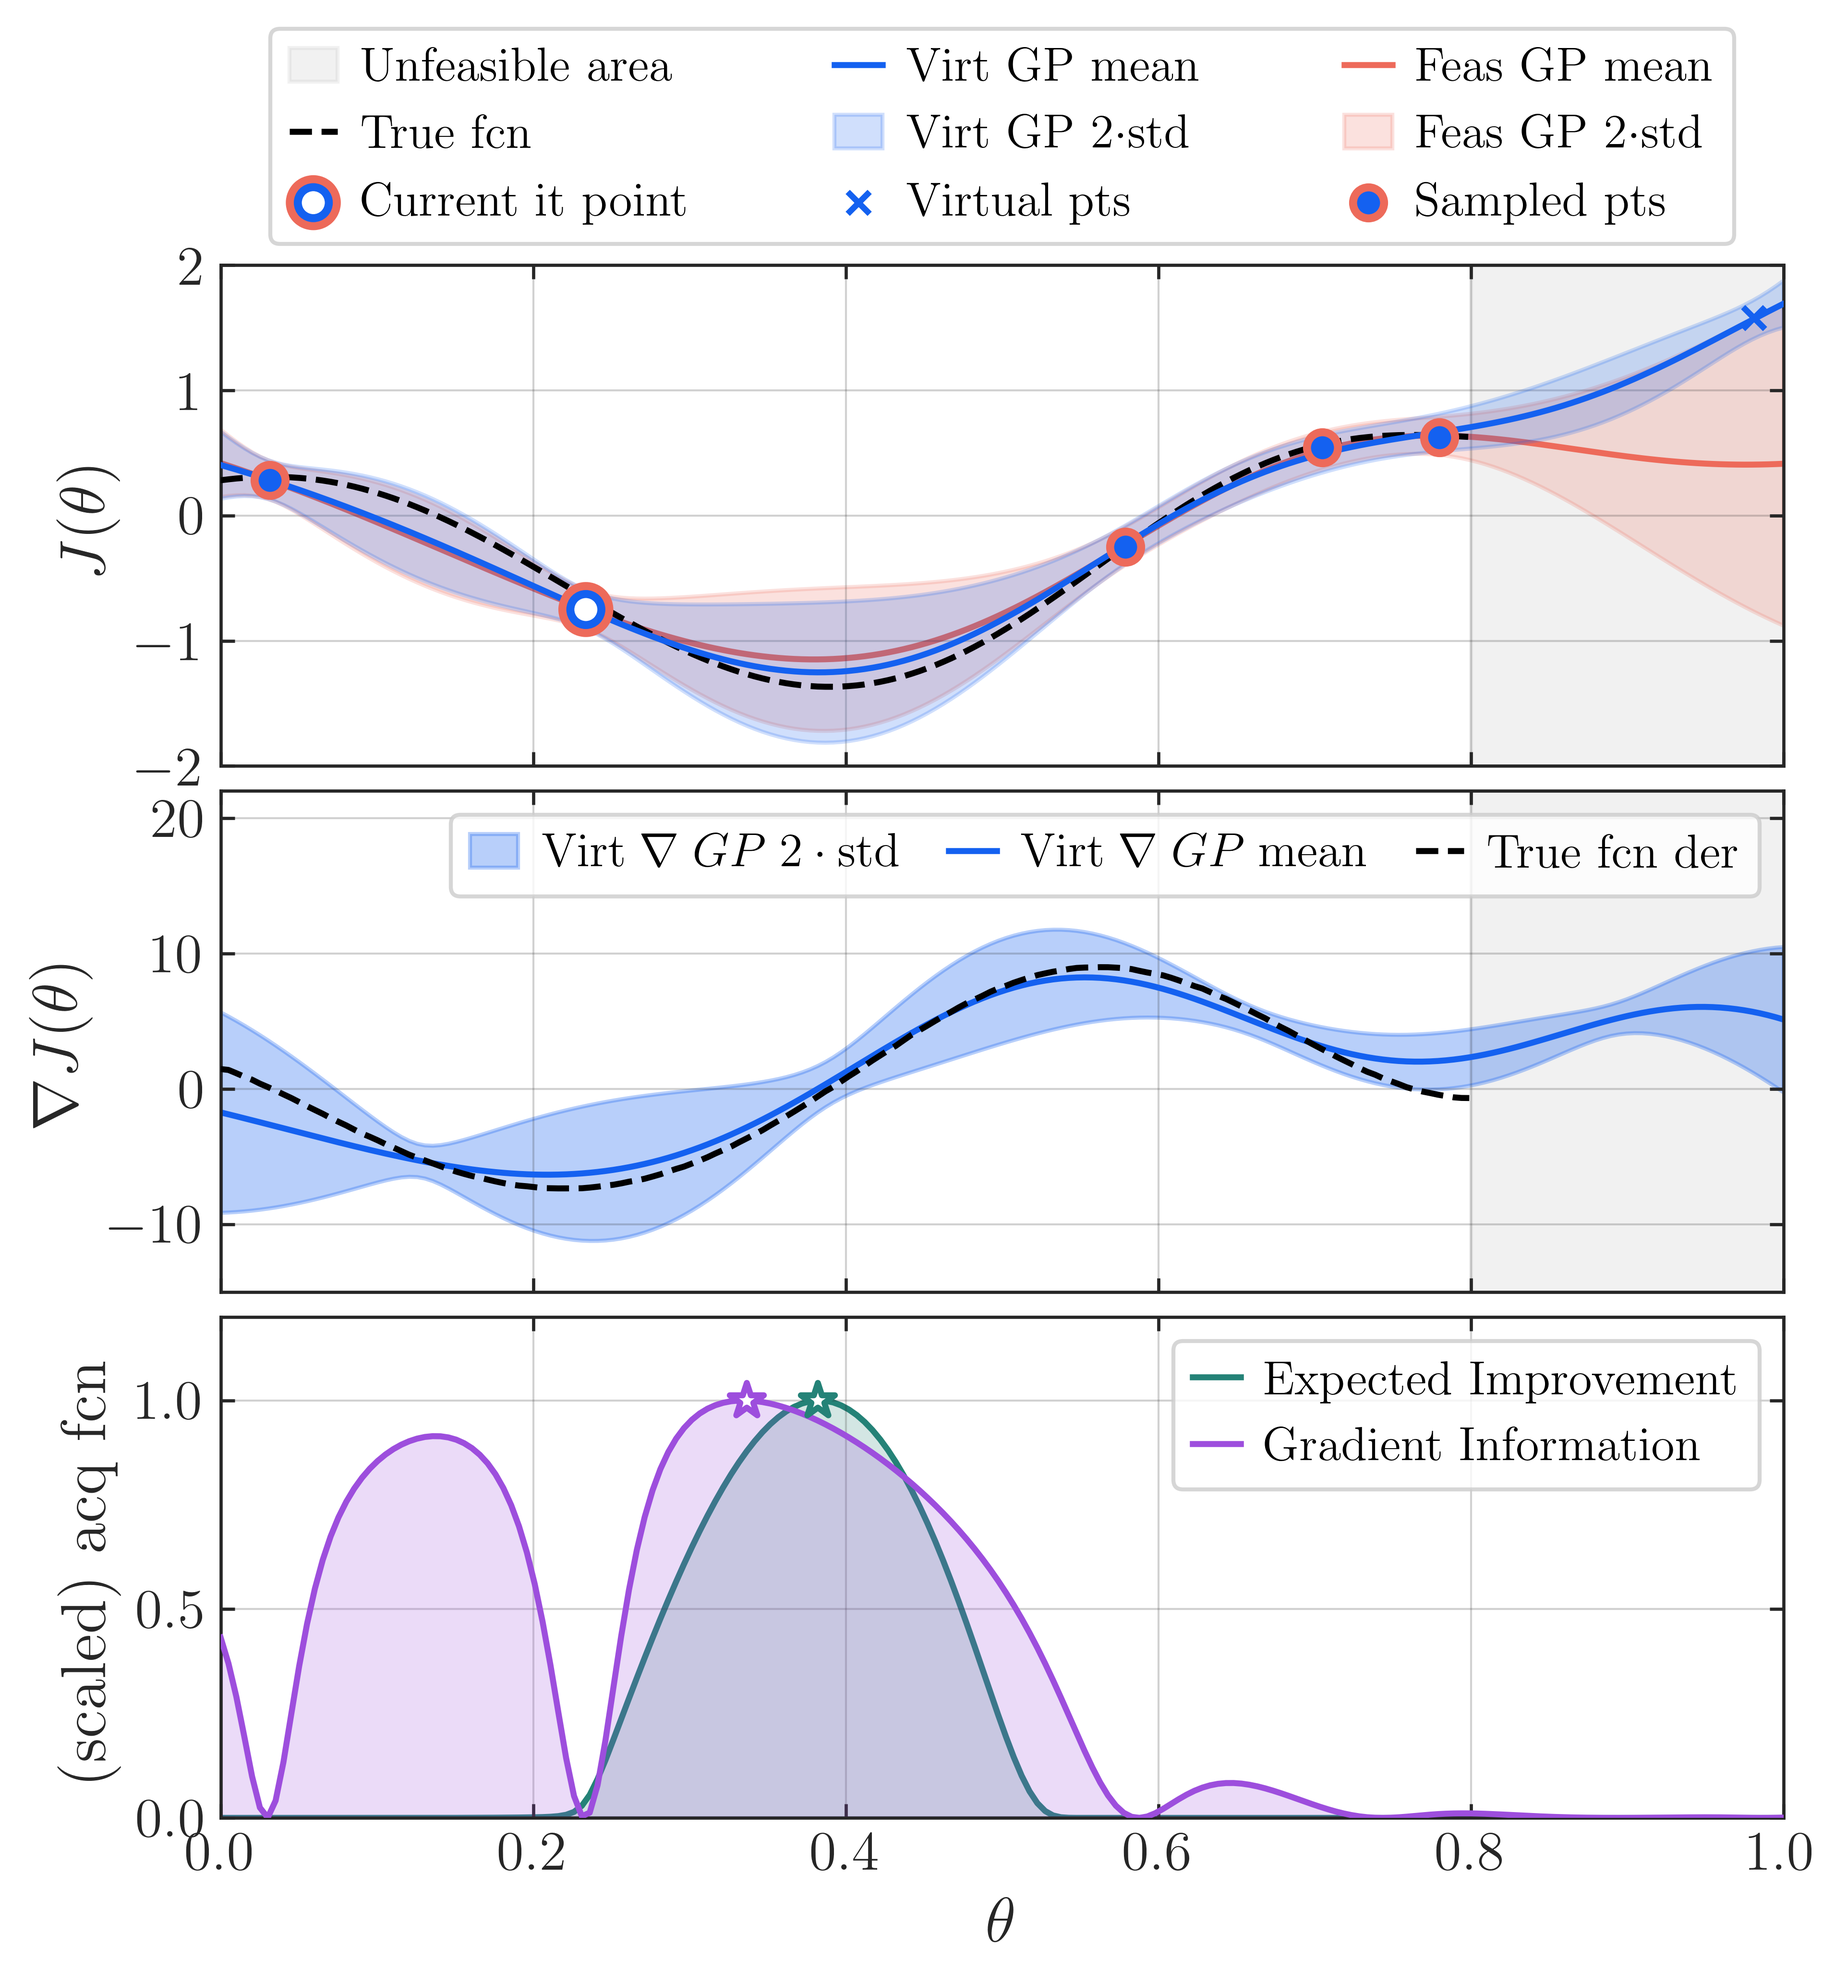
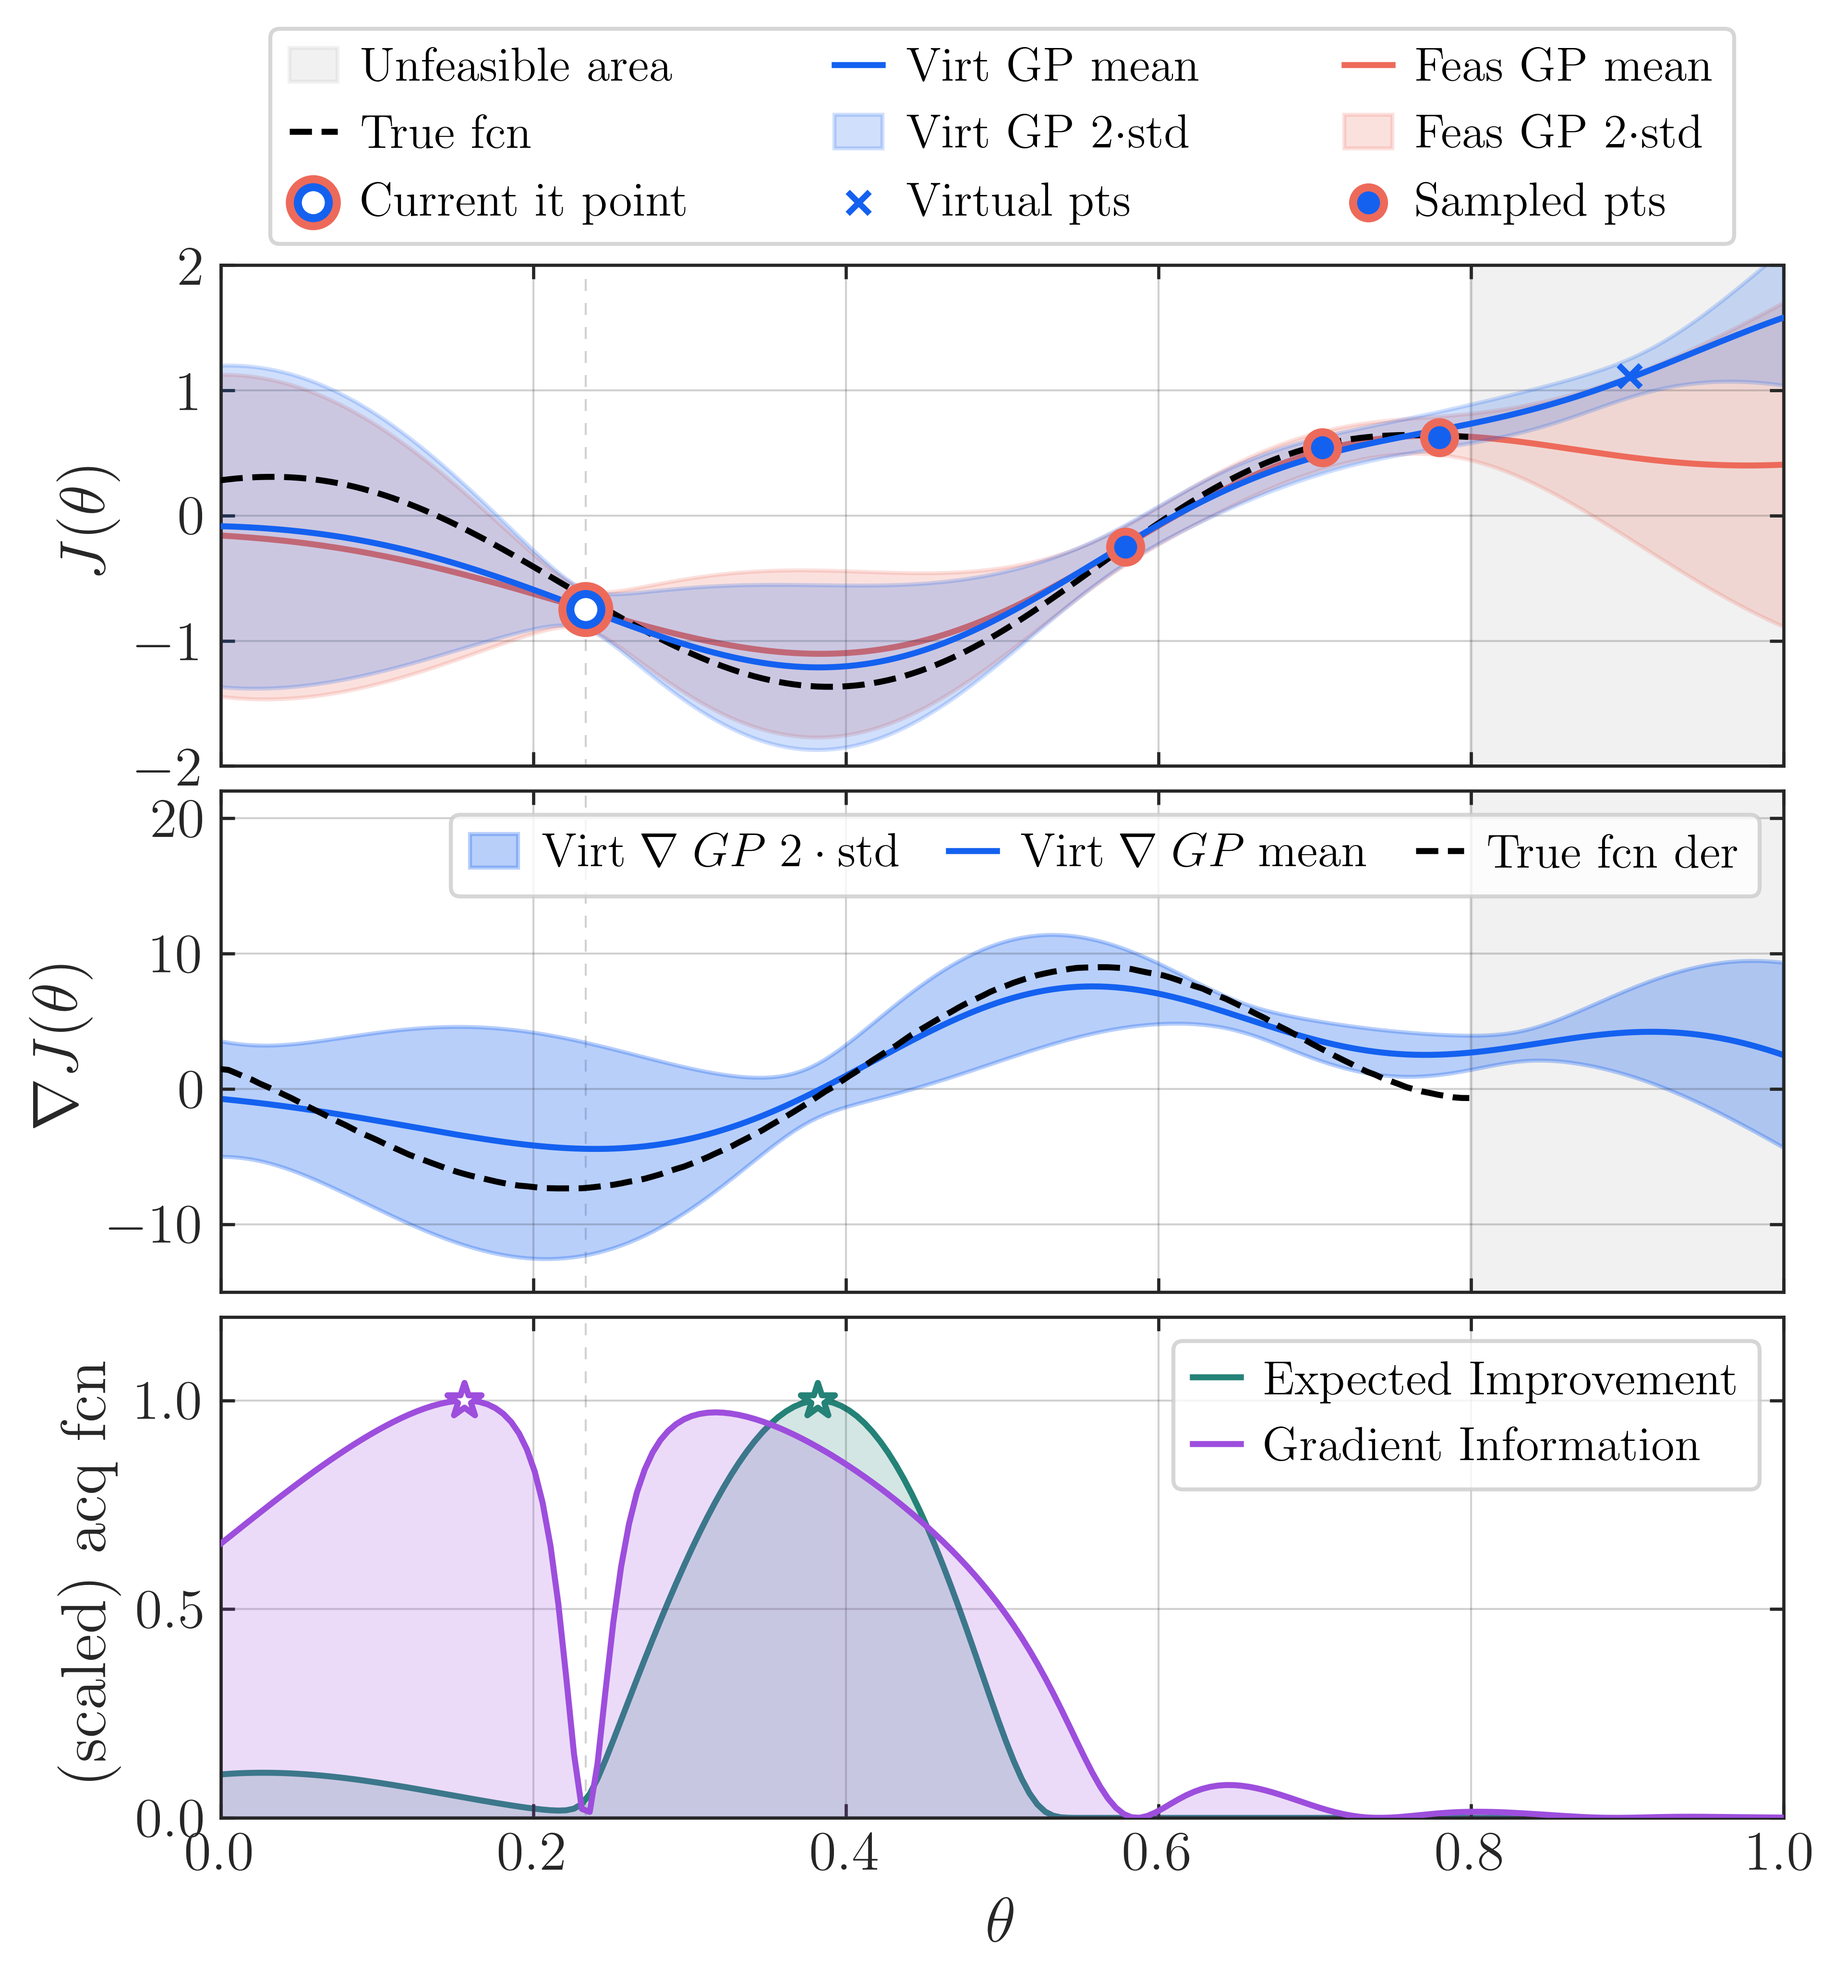
[ADD]: changed GIBO example plot

diff --git a/plot_GP_example.py b/plot_GP_example.py
@@ -72,7 +72,8 @@ with torch.no_grad(), gpytorch.settings.fast_pred_samples(), gpytorch.settings.p
 
     X_plot = torch.linspace(0, 1, 200).unsqueeze(-1)
     X_samples = torch.rand(8).unsqueeze(-1) # Useless line, necessary to make a nice random posterior
-    X_samples = torch.tensor([[0.9810], [0.7798], [0.7798-0.075], [0.2337], [0.4789+0.1], [0.0314]])
+    # X_samples = torch.tensor([[0.9810], [0.7798], [0.7798-0.075], [0.2337], [0.4789+0.1], [0.0314]])
+    X_samples = torch.tensor([[0.87654+0.025], [0.7798], [0.7798-0.075], [0.2337], [0.4789+0.1], [-0.2]])
 
     prior_dist = onlyfeaspoints_model(torch.vstack([X_plot, X_samples]))
     f_tot = prior_dist.sample()
@@ -177,6 +178,8 @@ ax1.plot(X_plot.flatten().numpy(), feas_gp_post_mean.numpy(), color=colors[1], l
 ax1.fill_between(X_plot.flatten().numpy(), feas_gp_post_lower.numpy(), feas_gp_post_upper.numpy(), alpha=0.2, color=colors[1], label=r'Feas GP $2\cdot$std', zorder=0)
 ax1.scatter(feas_gp_allpoints_x[feas_gp_allpoints_x != X_samples[gi_current_point_idx]].flatten().numpy(), feas_gp_allpoints_y[(feas_gp_allpoints_x != X_samples[gi_current_point_idx]).flatten()].flatten().numpy(), color=colors[0], s=60, edgecolors=colors[1], linewidth=2, marker='o', label="Sampled pts", zorder=5)
 
+l = ax1.vlines(X_samples[gi_current_point_idx, 0].item(), -3, 3, linewidth=0.5, alpha=0.208, color=color_axes, label='_nolegend_', zorder=-2)
+l.set_linestyle((0, (6, 6)))
 
 ax1.tick_params(axis='both', which='major', labelsize=axes_fontsize)
 ax1.set_ylabel(r'$J(\theta)$', fontsize=labels_fontsize, color=color_axes)
@@ -195,6 +198,10 @@ ax2.fill_between([constr_position, constr_position + 1], [-20 -20], [+25 +25], a
 ax2.fill_between(X_plot.flatten().numpy(), virt_gp_post_der_lower.numpy(), virt_gp_post_der_upper.numpy(), alpha=0.3, color=colors[0], label=r"$\mathrm{Virt}\;\nabla\;GP\;2\cdot\mathrm{std}$", zorder=1)
 ax2.plot(X_plot.flatten().numpy(), virt_gp_post_der_mean.numpy(), color=colors[0], label=r"$\mathrm{Virt}\;\nabla\;GP\;\mathrm{mean}$", zorder=2)
 ax2.plot(X_plot.flatten().numpy(), der_f_plot.numpy(), 'k--', label='True fcn der', zorder=3)
+
+l = ax2.vlines(X_samples[gi_current_point_idx, 0].item(), -20, 30, linewidth=0.5, alpha=0.208, color=color_axes, label='_nolegend_', zorder=-2)
+l.set_linestyle((0, (6, 6)))
+
 ax2.tick_params(axis='both', which='major', labelsize=axes_fontsize)
 ax2.set_ylabel(r'$\nabla J(\theta)$', fontsize=labels_fontsize, color=color_axes)
 ax2.legend(ncol=3, loc='upper right', fontsize=legend_fontsize, handlelength=1.0, handletextpad=0.5, columnspacing=1.0)
@@ -218,6 +225,10 @@ ax3.plot(X_plot.flatten().numpy(), ei_acq_values_scaled.numpy(), '-', color=acqf
 ax3.plot(X_plot.flatten().numpy(), gi_acq_values_scaled.numpy(), '-', color=acqf_colors[1], label='Gradient Information', zorder=3)
 ax3.scatter(X_plot[ei_best_idx].flatten().numpy(), ei_acq_values_scaled[ei_best_idx].numpy(), marker='*', s=80, facecolors='white', edgecolors=acqf_colors[0], linewidths=1.5, label='_nolegend_', zorder=3)
 ax3.scatter(X_plot[gi_best_idx].flatten().numpy(), gi_acq_values_scaled[gi_best_idx].numpy(), marker='*', s=80, facecolors='white', edgecolors=acqf_colors[1], linewidths=1.5, label='_nolegend_', zorder=3)
+
+l = ax3.vlines(X_samples[gi_current_point_idx, 0].item(), -1, 2, linestyle='--', linewidth=0.5, alpha=0.208, color=color_axes, label='_nolegend_', zorder=-2)
+l.set_linestyle((0, (6, 6)))
+
 ax3.tick_params(axis='both', which='major', labelsize=axes_fontsize)
 ax3.set_ylabel('(scaled) acq fcn', fontsize=labels_fontsize, color=color_axes)
 ax3.set_xlabel(r'$\theta$', fontsize=labels_fontsize, color=color_axes)
@@ -232,5 +243,13 @@ for spine in ax3.spines.values():
 
 ax1.set_xlim((0, 1))
 plt.tight_layout(rect=[0,0,1,0.95])
+
+
+# fig.savefig(
+#     "data/GIBO_example.png",
+#     dpi=600,               # high resolution
+#     bbox_inches="tight",   # crop any extra whitespace
+#     pad_inches=0.1           # remove any padding around the axes
+# )
 
 plt.show()
